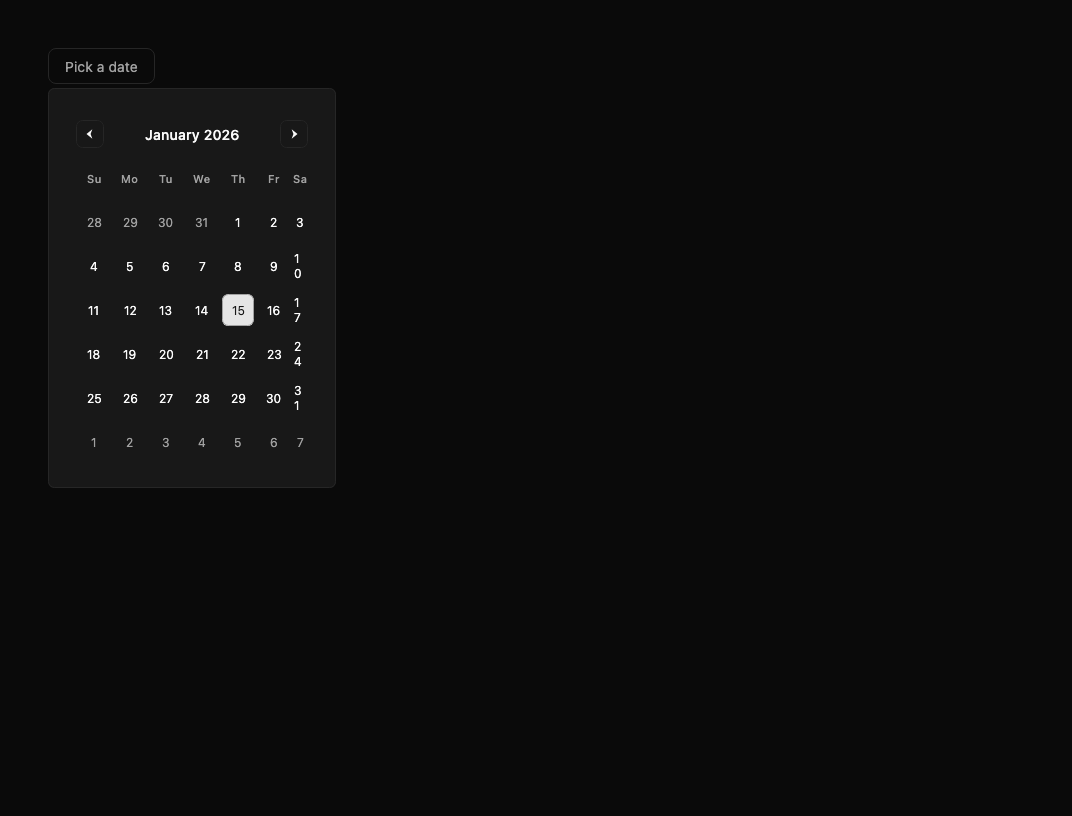
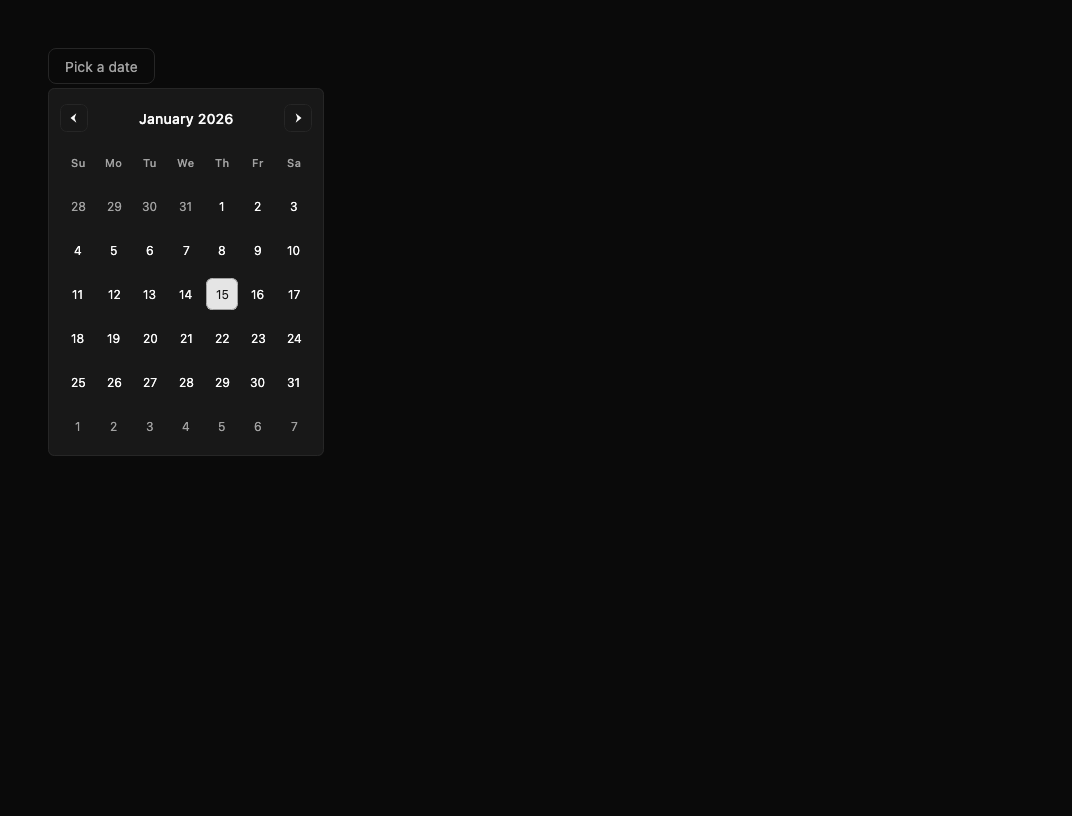
fix(popover): add contentPadding override, fixing DatePicker digit-wrapping
Pre-existing bug, not introduced this session: ShadcnCalendar's day grid
needs ~252dp + its own 12dp internal padding, but ShadcnPopover's fixed
288dp width minus its own hardcoded 16dp padding left only ~256dp --
already tight before the range picker's width=null fix even applied here.
Result: cells got squeezed and two-digit days (10/17/24/31, the Sa
column in a Sun-start grid) wrapped to two lines. Visually confirmed
in date_picker_states_light.png, which already showed this before today.

ShadcnPopover gets a second override, contentPadding: Dp = spacing.lg
(default unchanged) -- mirrors real shadcn's own actual mechanism:
real's PopoverContent defaults to `p-4` same as ours, and real's own
Calendar/date-picker demos explicitly override to `w-auto p-0` because
Calendar already brings its own internal padding, so the popover's own
padding must be zeroed rather than stacking on top of it. Applied
`contentPadding = 0.dp` (alongside the existing `width = null`) to every
site that hosts a bare Calendar (DatePicker's one example, DateRangePicker's
Default example, both screenshot tests) -- NOT to DateRangePicker's Presets/
Compare examples, which have extra chrome (preset buttons, a switch)
alongside the calendar and still need the popover's own padding around it.

diff --git a/app/shared/src/commonMain/kotlin/io/github/ronjunevaldoz/shadcncompose/catalog/docs/DatePickerDoc.kt b/app/shared/src/commonMain/kotlin/io/github/ronjunevaldoz/shadcncompose/catalog/docs/DatePickerDoc.kt
@@ -52,7 +52,7 @@ val datePickerDoc =
                 ShadcnButton(onClick = { open = true }, variant = ButtonVariant.Outline) {
                     ShadcnText(selected?.let(::formatDate) ?: "Pick a date", muted = selected == null)
                 }
-                ShadcnPopover(expanded = open, onDismissRequest = { open = false }) {
+                ShadcnPopover(expanded = open, onDismissRequest = { open = false }, width = null, contentPadding = 0.dp) {
                     ShadcnCalendar(
                         year = year, month = month, onMonthChange = { y, m -> year = y; month = m },
                         selected = selected, onSelectedChange = { selected = it; open = false },
@@ -80,7 +80,7 @@ val datePickerDoc =
                                 )
                                 ShadcnText(selected?.let(::formatDate) ?: "Pick a date", muted = selected == null)
                             }
-                            ShadcnPopover(expanded = open, onDismissRequest = { open = false }) {
+                            ShadcnPopover(expanded = open, onDismissRequest = { open = false }, width = null, contentPadding = 0.dp) {
                                 ShadcnCalendar(
                                     year = year,
                                     month = month,
@@ -109,7 +109,12 @@ val datePickerDoc =
                                 )
                                 ShadcnText(selected?.let(::formatDate) ?: "Pick a date", muted = selected == null)
                             }
-                            ShadcnPopover(expanded = open, onDismissRequest = { open = false }) {
+                            ShadcnPopover(
+                                expanded = open,
+                                onDismissRequest = { open = false },
+                                width = null,
+                                contentPadding = 0.dp,
+                            ) {
                                 ShadcnCalendar(
                                     year = year,
                                     month = month,

diff --git a/app/shared/src/commonMain/kotlin/io/github/ronjunevaldoz/shadcncompose/catalog/docs/DateRangePickerDoc.kt b/app/shared/src/commonMain/kotlin/io/github/ronjunevaldoz/shadcncompose/catalog/docs/DateRangePickerDoc.kt
@@ -178,7 +178,7 @@ val dateRangePickerDoc =
                 ShadcnButton(onClick = { open = true }, variant = ButtonVariant.Outline) {
                     ShadcnText(formatRange(range), muted = range.start == null)
                 }
-                ShadcnPopover(expanded = open, onDismissRequest = { open = false }, width = null) {
+                ShadcnPopover(expanded = open, onDismissRequest = { open = false }, width = null, contentPadding = 0.dp) {
                     ShadcnCalendarRange(
                         year = year, month = month, onMonthChange = { y, m -> year = y; month = m },
                         range = range,
@@ -208,7 +208,7 @@ val dateRangePickerDoc =
                                 )
                                 ShadcnText(formatRange(range), muted = range.start == null)
                             }
-                            ShadcnPopover(expanded = open, onDismissRequest = { open = false }, width = null) {
+                            ShadcnPopover(expanded = open, onDismissRequest = { open = false }, width = null, contentPadding = 0.dp) {
                                 ShadcnCalendarRange(
                                     year = year,
                                     month = month,
@@ -238,7 +238,12 @@ val dateRangePickerDoc =
                                 )
                                 ShadcnText(formatRange(range), muted = range.start == null)
                             }
-                            ShadcnPopover(expanded = open, onDismissRequest = { open = false }, width = null) {
+                            ShadcnPopover(
+                                expanded = open,
+                                onDismissRequest = { open = false },
+                                width = null,
+                                contentPadding = 0.dp,
+                            ) {
                                 ShadcnCalendarRange(
                                     year = year,
                                     month = month,

diff --git a/shadcn/core/src/commonMain/kotlin/io/github/ronjunevaldoz/shadcncompose/components/ShadcnPopover.kt b/shadcn/core/src/commonMain/kotlin/io/github/ronjunevaldoz/shadcncompose/components/ShadcnPopover.kt
@@ -24,6 +24,13 @@ import io.github.ronjunevaldoz.shadcncompose.theme.shadcnTheme
  * range picker, for one, is wider than 288dp and would otherwise get clipped). Pass
  * `width = null` for that same wrap-content sizing.
  *
+ * [contentPadding] mirrors the same real override -- that `p-0` in `"w-auto p-0"` zeroes
+ * the *popover's own* padding specifically because a hosted `Calendar` already brings its
+ * own internal padding (real's `Calendar` is `p-3`; this library's [ShadcnCalendar]/
+ * [ShadcnCalendarRange] use `spacing.md`), so the default `spacing.lg` here would otherwise
+ * stack on top of it for a visibly over-padded result. Pass `contentPadding = 0.dp` (and
+ * `width = null`) together when hosting a calendar, matching real's `w-auto p-0` exactly.
+ *
  * Usage:
  * ```
  * var open by remember { mutableStateOf(false) }
@@ -42,6 +49,7 @@ fun ShadcnPopover(
     modifier: Modifier = Modifier,
     placement: ShadcnPopupPlacement = ShadcnPopupPlacement.Bottom,
     width: Dp? = 288.dp,
+    contentPadding: Dp = shadcnTheme.spacing.lg,
     content: @Composable () -> Unit,
 ) {
     ShadcnAnchoredPopup(expanded = expanded, onDismissRequest = onDismissRequest, placement = placement) {
@@ -51,7 +59,7 @@ fun ShadcnPopover(
                     .let { if (width != null) it.width(width) else it }
                     .background(shadcnTheme.colors.popover, RoundedCornerShape(shadcnTheme.shapes.md))
                     .border(1.dp, shadcnTheme.colors.border, RoundedCornerShape(shadcnTheme.shapes.md))
-                    .padding(shadcnTheme.spacing.lg),
+                    .padding(contentPadding),
         ) {
             content()
         }

diff --git a/shadcn/core/src/jvmTest/kotlin/io/github/ronjunevaldoz/shadcncompose/components/DateRangePickerScreenshotTest.kt b/shadcn/core/src/jvmTest/kotlin/io/github/ronjunevaldoz/shadcncompose/components/DateRangePickerScreenshotTest.kt
@@ -3,6 +3,7 @@
 package io.github.ronjunevaldoz.shadcncompose.components
 
 import androidx.compose.foundation.layout.Box
+import androidx.compose.ui.unit.dp
 import io.github.ronjunevaldoz.shadcncompose.ShadcnScreenshotTest
 import io.github.ronjunevaldoz.shadcncompose.styles.ButtonVariant
 import kotlin.test.Test
@@ -21,7 +22,7 @@ class DateRangePickerScreenshotTest : ShadcnScreenshotTest() {
                 ShadcnButton(onClick = {}, variant = ButtonVariant.Outline) {
                     ShadcnText("Pick a date range", muted = true)
                 }
-                ShadcnPopover(expanded = true, onDismissRequest = {}, width = null) {
+                ShadcnPopover(expanded = true, onDismissRequest = {}, width = null, contentPadding = 0.dp) {
                     ShadcnCalendarRange(
                         year = 2026,
                         month = 1,

diff --git a/shadcn/core/src/jvmTest/kotlin/io/github/ronjunevaldoz/shadcncompose/components/DatePickerScreenshotTest.kt b/shadcn/core/src/jvmTest/kotlin/io/github/ronjunevaldoz/shadcncompose/components/DatePickerScreenshotTest.kt
@@ -3,6 +3,7 @@
 package io.github.ronjunevaldoz.shadcncompose.components
 
 import androidx.compose.foundation.layout.Box
+import androidx.compose.ui.unit.dp
 import io.github.ronjunevaldoz.shadcncompose.ShadcnScreenshotTest
 import io.github.ronjunevaldoz.shadcncompose.styles.ButtonVariant
 import kotlin.test.Test
@@ -21,7 +22,7 @@ class DatePickerScreenshotTest : ShadcnScreenshotTest() {
                 ShadcnButton(onClick = {}, variant = ButtonVariant.Outline) {
                     ShadcnText("Pick a date", muted = true)
                 }
-                ShadcnPopover(expanded = true, onDismissRequest = {}) {
+                ShadcnPopover(expanded = true, onDismissRequest = {}, width = null, contentPadding = 0.dp) {
                     ShadcnCalendar(
                         year = 2026,
                         month = 1,
